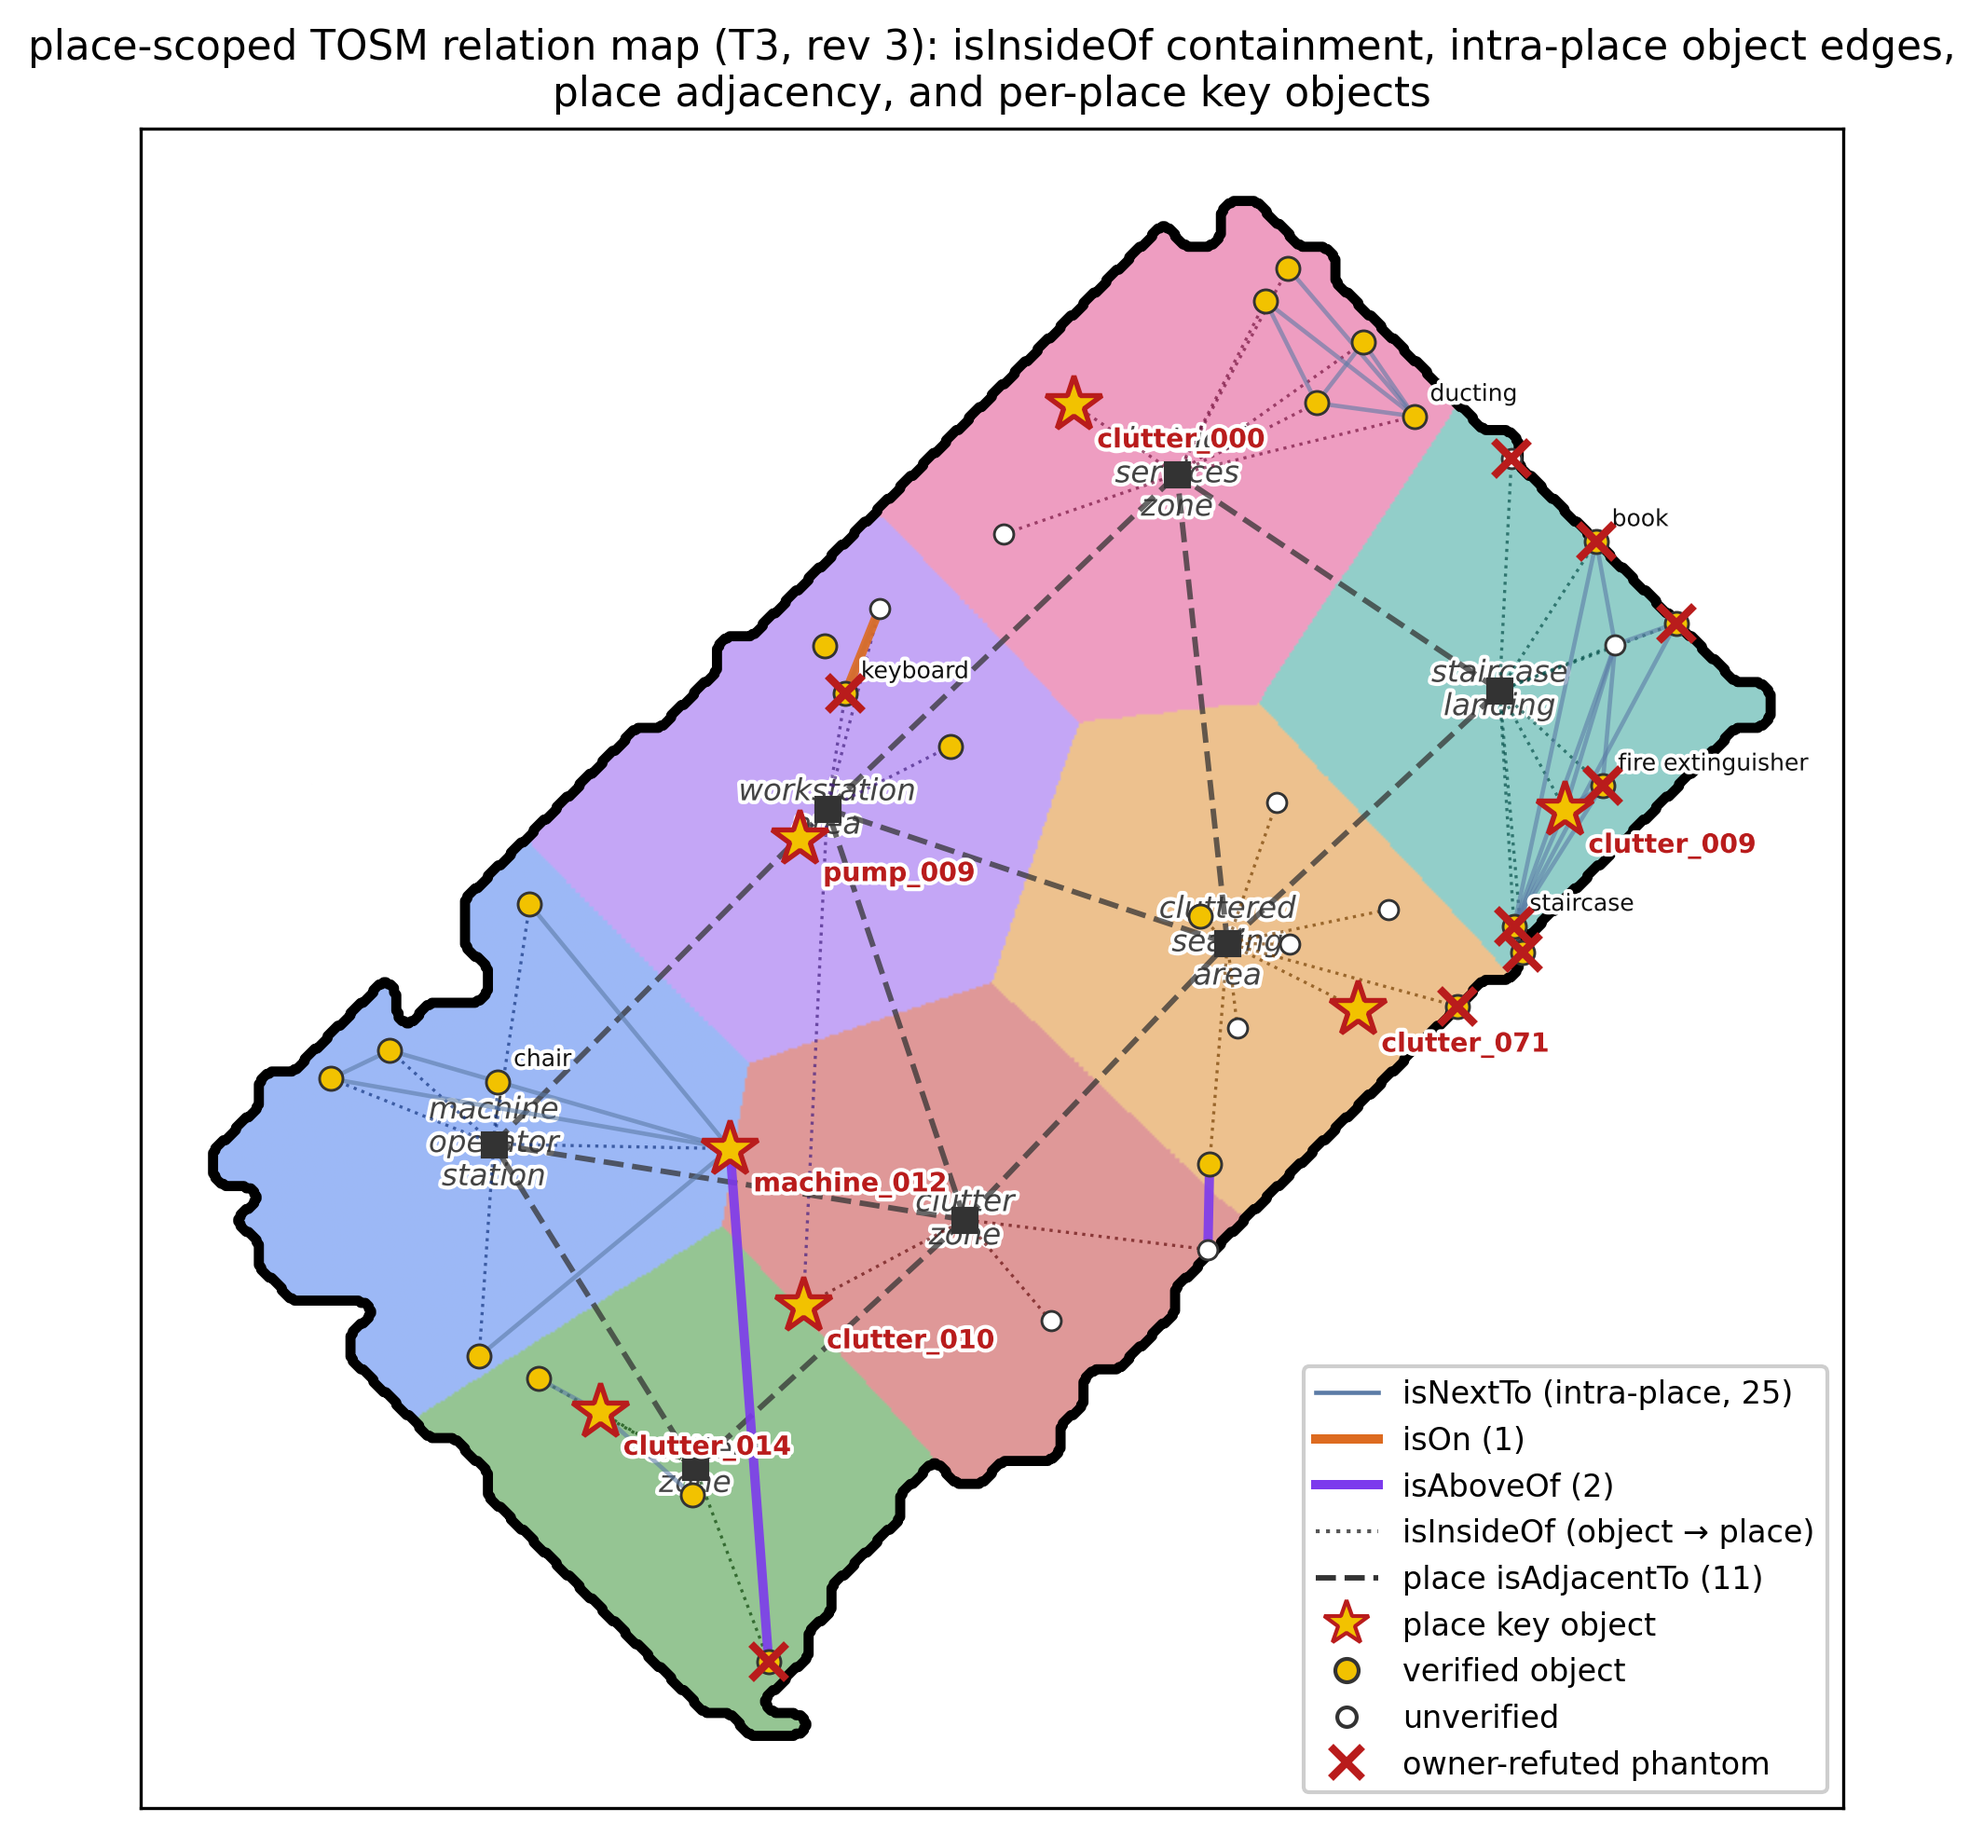
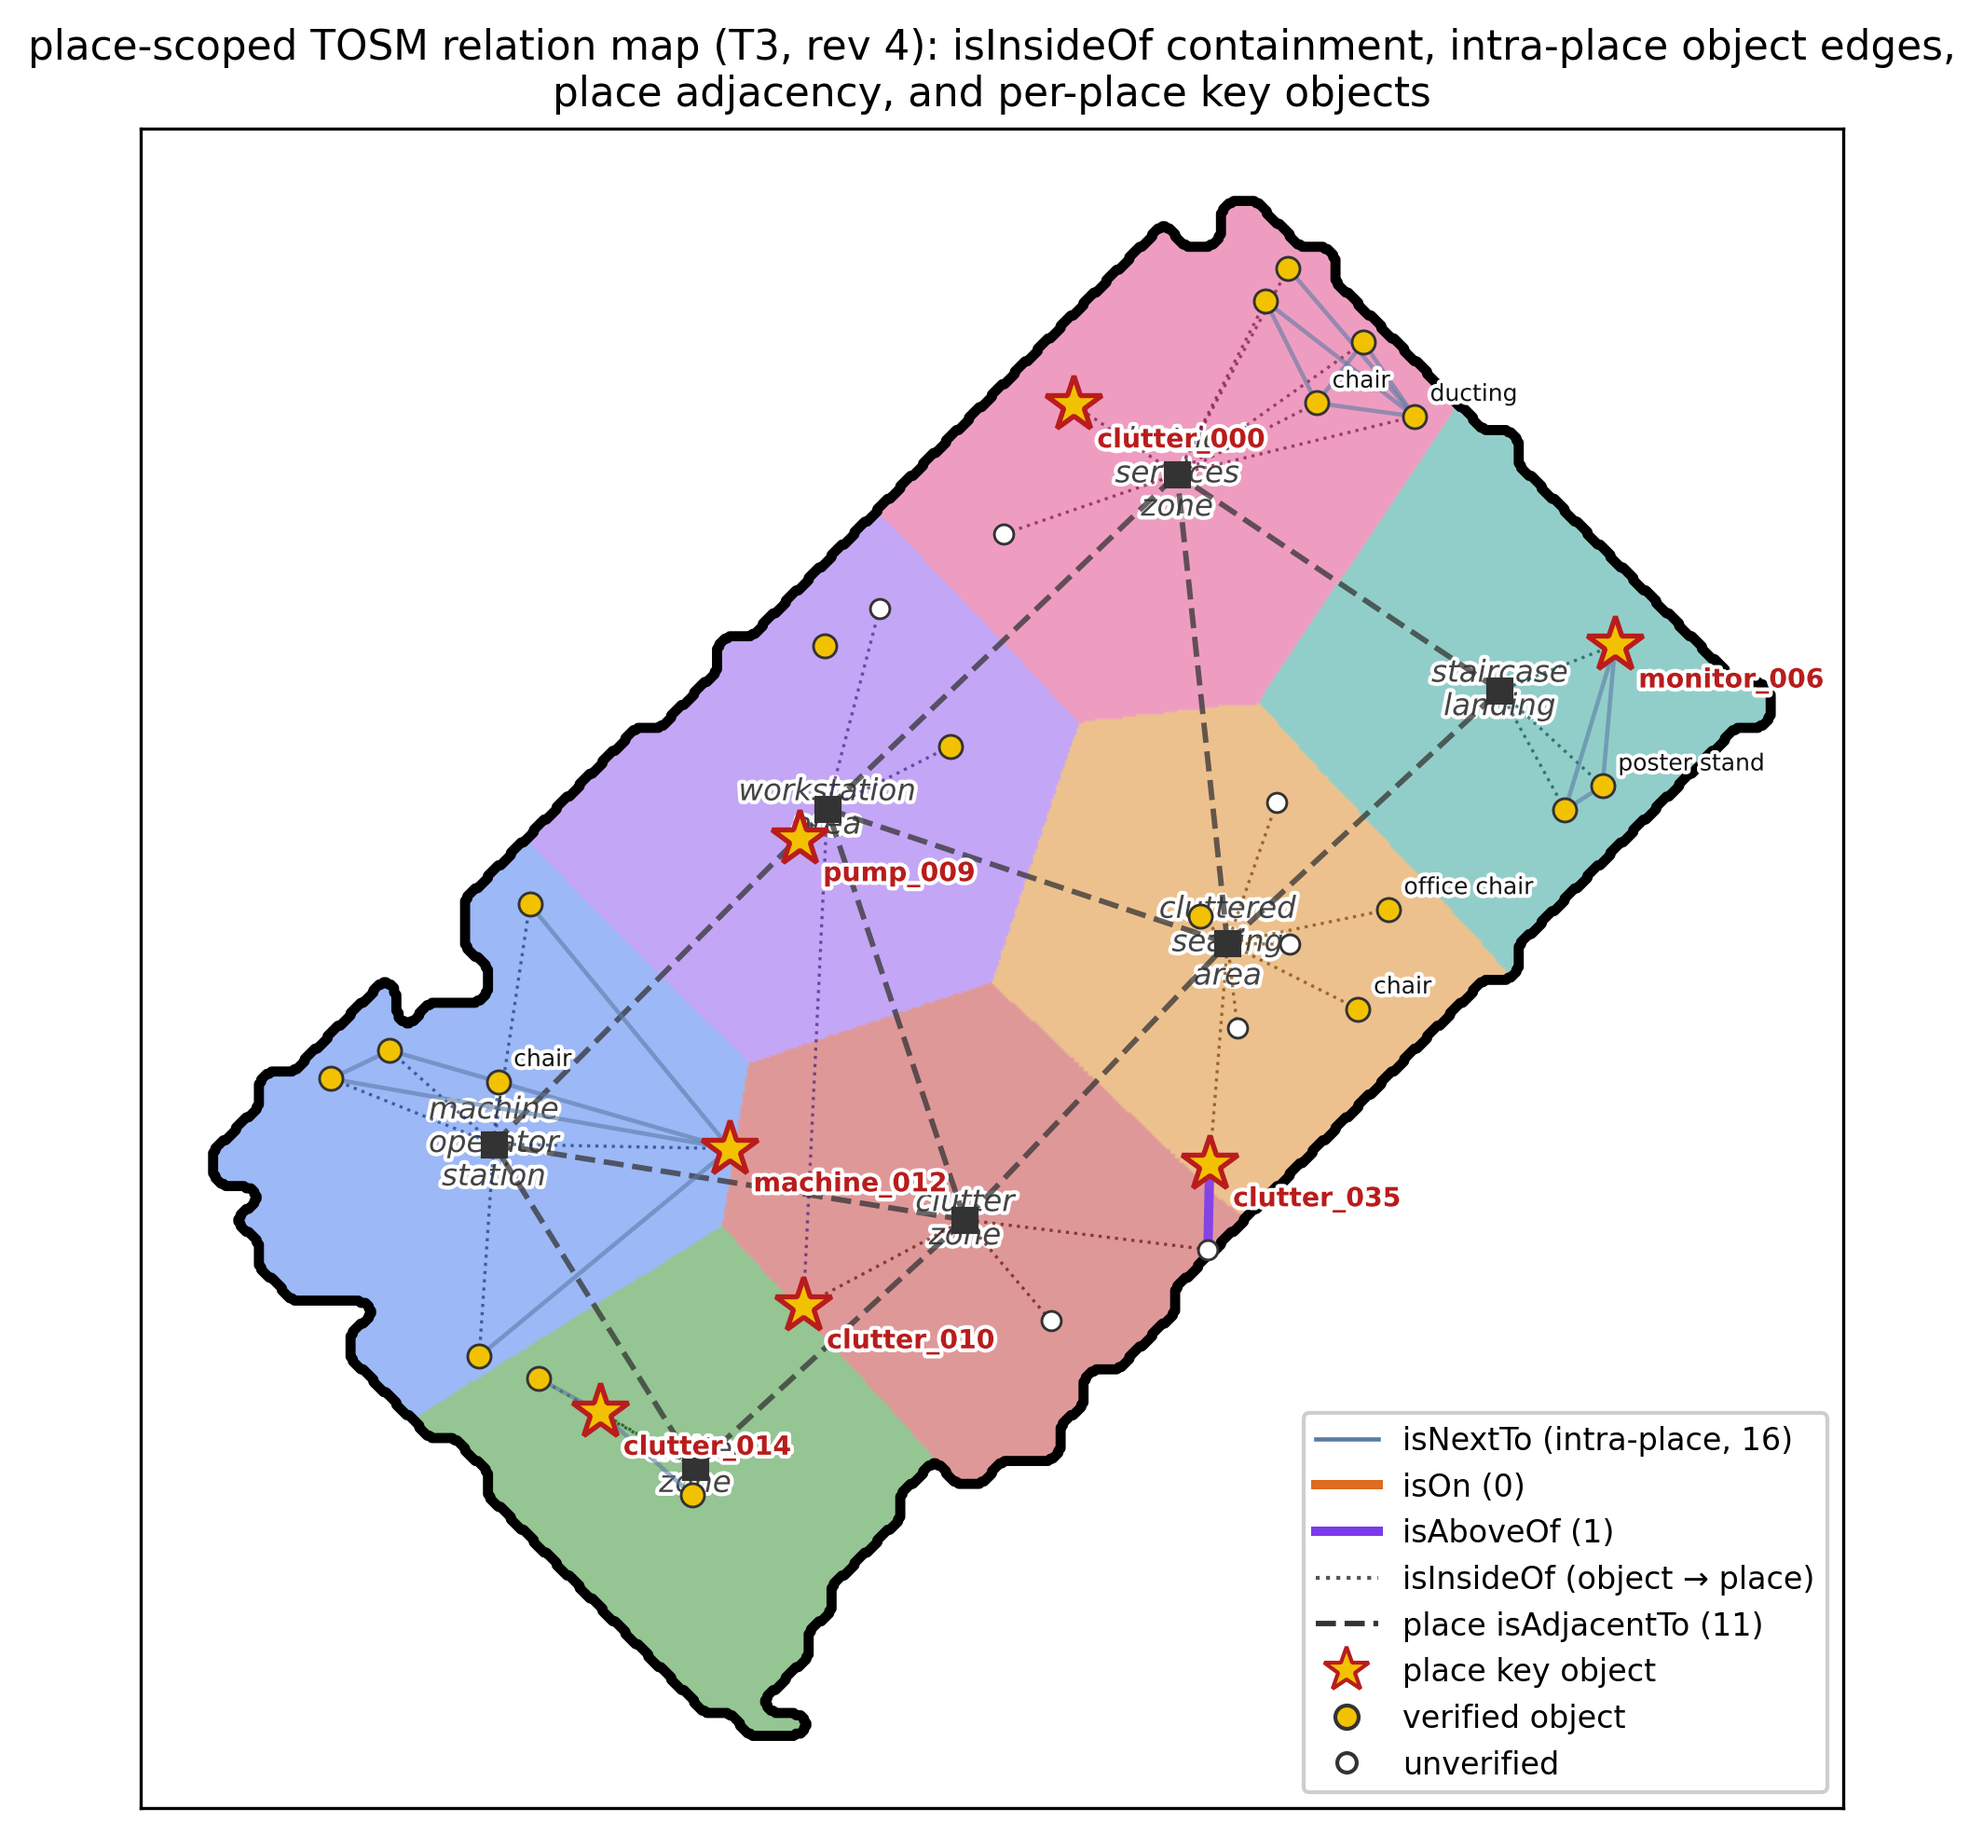
KG rev4 (owner feedback + recovery adoptions), fig14 structure-filter before/after, T1/T2 regression in 5.3; fig12 v9 rev4

diff --git a/docs/electronics2026/manuscript/sec5_experiments.tex b/docs/electronics2026/manuscript/sec5_experiments.tex
@@ -248,6 +248,34 @@ when both passes agree, or when a pass agrees with the cluster's own
 base label, yields five adoptions at 5/5 precision (two chairs, an
 office chair, a machine, and the TV) and resurrects no owner-refuted
 phantom. Domain knowledge helps recall; only agreement makes it safe.
+Fig.~\ref{fig:structfilter} shows the filter's effect on the T3 epoch.
+Regression on the other epochs (no ground truth, manual inspection)
+flags 8/50 T1 and 18/55 T2 clusters --- dominated by the documented
+soffit phantoms (keyboards, chairs at 2.4\,m, a stair at 3.4\,m) and a
+cluster the classifier itself had named \texttt{wall} --- while every
+door, chair, machine, elevator, and wall-mounted control panel survives;
+the one systematic casualty is a closed-door fragment lying in the wall
+plane, consistent with the door-detection asymmetry of
+Sec.~\ref{sec:discussion}. Finally, refutations, corrections, and
+adopted labels are applied as a fourth KG revision through the same
+upsert history mechanism as a rescan: eight phantoms leave the graph,
+the poster stand is corrected in place, five recovered types land, the
+TV becomes its region's key object, and the relation layer sheds nine
+noise-anchored edges (25 to 16 intra-place).
+
+\begin{figure}[t]
+\centering
+\includegraphics[width=\linewidth]{fig14_structure_filter.png}
+\caption{Hybrid structure-noise filter on the T3 epoch. (a) All 41
+detected clusters; the 15 flagged ones are colored by rule --- wall
+remnant/band (grid-map hug $\times$ thin vertical sheet, or long
+full-height band), ceiling fixture/noise, outside the room boundary.
+(b) The 26 survivors with recovery / owner-corrected labels. The
+wall-flush monitor bank (labeled \texttt{tv}) and wall-mounted equipment
+survive; residual merge labels (\texttt{electrical cabinet},
+\texttt{ducting}) are retained pipeline output, not corrections.}
+\label{fig:structfilter}
+\end{figure}
 
 \begin{figure}[t]
 \centering

diff --git a/docs/electronics2026/manuscript/sec4_methodology.tex b/docs/electronics2026/manuscript/sec4_methodology.tex
@@ -210,9 +210,11 @@ Fig.~\ref{fig:placemap} (pastel): dotted object$\rightarrow$place
 \texttt{isInsideOf} containment, intra-place \texttt{isNextTo} edges,
 vertical \texttt{isOn}/\texttt{isAboveOf} relations, dashed place
 \texttt{isAdjacentTo} edges between region centroids, and per-place key
-objects (named stars). Owner-refuted phantoms (a verified keyboard,
-staircase, and fire extinguisher that do not exist in the room) are
-crossed out and excluded from key-object designation.}
+objects (named stars), shown after the owner-feedback revision
+(Sec.~\ref{sec:exp-verify}): refuted phantoms (a verified keyboard,
+staircase, and book that do not exist in the room) have been removed
+from the graph, the poster stand carries its owner-corrected label, and
+the recovered TV is the key object of its region.}
 \label{fig:relmap}
 \end{figure}
 
